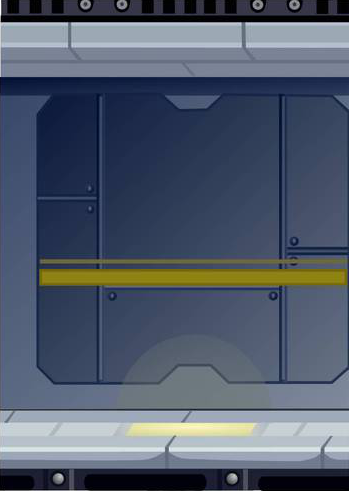
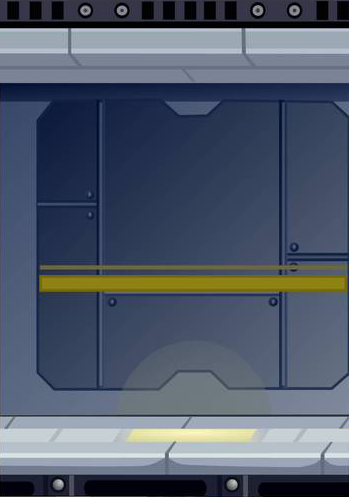
added: fist plan parallax effect

diff --git a/src/my_runner.c b/src/my_runner.c
@@ -7,25 +7,25 @@
 
 #include "runner.h"
 
-static bool wait_for_start(bool start_status, game_object **obj_box,
+static bool wait_for_start(bool *start_status, game_object **obj_box,
     sound_t **sound_box)
 {
-    while (start_status == false)
+    while (*start_status == false)
         if (sfKeyboard_isKeyPressed(sfKeySpace))
-            start_status = true;
+            *start_status = true;
     sfMusic_stop(sound_box[1]->music);
     sfMusic_play(sound_box[0]->music);
     sfMusic_play(sound_box[2]->music);
+    sfSprite_setPosition(obj_box[1]->spr, (sfVector2f){500.0, 830.0});
     sfSprite_setPosition(obj_box[2]->spr, (sfVector2f){2000.0, 2000.0});
-    sfSprite_setPosition(obj_box[3]->spr, (sfVector2f){500.0, 830.0});
-    return (start_status);
+    return (*start_status);
 }
 
 void my_runner(void)
 {
     sfEvent event;
     sfRenderWindow *window = create_my_window(1920, 1080, 32);
-    game_object **obj_box = malloc(sizeof(game_object *) * 4);
+    game_object **obj_box = malloc(sizeof(game_object *) * 8);
     sound_t **sound_box = malloc(sizeof(sound_t *) * 3);
     bool start_status = false;
 
@@ -35,7 +35,9 @@ void my_runner(void)
         sfRenderWindow_display(window);
         close_my_window(window, event);
         if (!start_status)
-            start_status = wait_for_start(start_status, obj_box, sound_box);
+            wait_for_start(&start_status, obj_box, sound_box);
+        move_env(obj_box);
+        sfRenderWindow_clear(window, sfBlack);
     }
     destroy_my_ressources(window, obj_box, sound_box);
 }

diff --git a/src/init_my_ressources.c b/src/init_my_ressources.c
@@ -10,9 +10,25 @@
 void init_my_ressources(game_object **obj_box)
 {
     sfSprite_setScale(obj_box[0]->spr, (sfVector2f){3.0, 3.0});
-    sfSprite_setPosition(obj_box[1]->spr, (sfVector2f){1389.0, 29.0});
-    sfSprite_setScale(obj_box[1]->spr, (sfVector2f){2.11, 2.11});
+    sfSprite_setScale(obj_box[1]->spr, (sfVector2f){1.5, 1.5});
     sfSprite_setScale(obj_box[2]->spr, (sfVector2f){3.0, 3.0});
-    sfSprite_setPosition(obj_box[3]->spr, (sfVector2f){2000.0, 2000.0});
-    sfSprite_setScale(obj_box[3]->spr, (sfVector2f){1.5, 1.5});
+    //for
+    sfSprite_setScale(obj_box[3]->spr, (sfVector2f){2.115, 2.115});
+    sfSprite_setScale(obj_box[4]->spr, (sfVector2f){2.115, 2.115});
+    sfSprite_setScale(obj_box[5]->spr, (sfVector2f){2.115, 2.115});
+    sfSprite_setScale(obj_box[6]->spr, (sfVector2f){2.115, 2.115});
+    //
+    sfSprite_setPosition(obj_box[1]->spr, (sfVector2f){2000.0, 2000.0});
+    sfSprite_setPosition(obj_box[3]->spr, (sfVector2f){1389.0, 13.0});
+    sfSprite_setPosition(obj_box[4]->spr, (sfVector2f){2127.0, 13.0});
+    sfSprite_setPosition(obj_box[5]->spr, (sfVector2f){2865.0, 13.0});
+    sfSprite_setPosition(obj_box[6]->spr, (sfVector2f){3603.0, 13.0});
+    sfSprite_setPosition(obj_box[7]->spr, (sfVector2f){0.0, 200.0});
+    //for
+    obj_box[0]->vec.x = -1.0;
+    obj_box[3]->vec.x = -1.0;
+    obj_box[4]->vec.x = -1.0;
+    obj_box[5]->vec.x = -1.0;
+    obj_box[6]->vec.x = -1.0;
+    //
 }

diff --git a/src/move_env.c b/src/move_env.c
@@ -1,0 +1,28 @@
+/*
+** EPITECH PROJECT, 2018
+** move_env.c
+** File description:
+** moves the environnement, takes care of the parallax effect
+*/
+
+#include "runner.h"
+
+static void parallax_mov(game_object **obj_box, int i)
+{
+    if (sfSprite_getPosition(obj_box[i]->spr).x > -750)
+        sfSprite_move(obj_box[i]->spr, obj_box[i]->vec);
+    else
+        sfSprite_setPosition(obj_box[i]->spr, (sfVector2f){2200.0, 13.0});
+}
+
+void move_env(game_object **obj_box)
+{
+    if (sfSprite_getPosition(obj_box[0]->spr).x > -1500)
+        sfSprite_move(obj_box[0]->spr, obj_box[0]->vec);
+    //for
+    parallax_mov(obj_box, 3);
+    parallax_mov(obj_box, 4);
+    parallax_mov(obj_box, 5);
+    parallax_mov(obj_box, 6);
+    //
+}

diff --git a/src/create_my_sprites.c b/src/create_my_sprites.c
@@ -17,7 +17,11 @@ static void create_env(game_object *obj, char const *path)
 void create_my_sprites(game_object **obj_box)
 {
     create_env(obj_box[0], "./image_src/LabEmpty.png");
-    create_env(obj_box[1], "./image_src/Slide.png");
+    create_env(obj_box[1], "./image_src/run1.png");
     create_env(obj_box[2], "./image_src/LabEntry.png");
-    create_env(obj_box[3], "./image_src/run1.png");
+    create_env(obj_box[3], "./image_src/Slide.png");
+    create_env(obj_box[4], "./image_src/EmptySlide.png");
+    create_env(obj_box[5], "./image_src/Slide.png");
+    create_env(obj_box[6], "./image_src/EmptySlide.png");
+    create_env(obj_box[7], "./image_src/XP-pix.jpg");
 }

diff --git a/src/draw_my_sprites.c b/src/draw_my_sprites.c
@@ -9,8 +9,14 @@
 
 void draw_my_sprites(sfRenderWindow *window, game_object **obj_box)
 {
+    //for
+    sfRenderWindow_drawSprite(window, obj_box[7]->spr, NULL);
     sfRenderWindow_drawSprite(window, obj_box[0]->spr, NULL);
-    sfRenderWindow_drawSprite(window, obj_box[1]->spr, NULL);
     sfRenderWindow_drawSprite(window, obj_box[2]->spr, NULL);
     sfRenderWindow_drawSprite(window, obj_box[3]->spr, NULL);
+    sfRenderWindow_drawSprite(window, obj_box[4]->spr, NULL);
+    sfRenderWindow_drawSprite(window, obj_box[5]->spr, NULL);
+    sfRenderWindow_drawSprite(window, obj_box[6]->spr, NULL);
+    sfRenderWindow_drawSprite(window, obj_box[1]->spr, NULL);
+    //
 }

diff --git a/src/destroy_my_ressources.c b/src/destroy_my_ressources.c
@@ -9,7 +9,7 @@
 
 static void free_all(game_object **obj_box, sound_t **sound_box)
 {
-    for (int i = 0; i < 4; i++)
+    for (int i = 0; i < 6; i++)
         free(obj_box[i]);
     for (int i = 0; i < 3; i++)
         free(sound_box[i]);
@@ -36,6 +36,9 @@ void destroy_my_ressources(sfRenderWindow *window, game_object **obj_box,
     destroy_env(obj_box[0]);
     destroy_env(obj_box[1]);
     destroy_env(obj_box[2]);
+    destroy_env(obj_box[3]);
+    destroy_env(obj_box[4]);
+    destroy_env(obj_box[5]);
     destroy_music(sound_box[0]);
     destroy_music(sound_box[1]);
     destroy_music(sound_box[2]);

diff --git a/src/create_my_ressources.c b/src/create_my_ressources.c
@@ -9,7 +9,7 @@
 
 void create_my_ressources(game_object **obj_box, sound_t **sound_box)
 {
-    for (int i = 0; i < 4; i++)
+    for (int i = 0; i < 8; i++)
         obj_box[i] = malloc(sizeof(game_object));
     for (int i = 0; i < 3; i++)
         sound_box[i] = malloc(sizeof(sound_t));
@@ -17,4 +17,6 @@ void create_my_ressources(game_object **obj_box, sound_t **sound_box)
     create_my_sounds(sound_box);
     init_my_ressources(obj_box);
     sfMusic_play(sound_box[1]->music);
+    sfMusic_setLoop(sound_box[0]->music, sfTrue);
+    sfMusic_setLoop(sound_box[1]->music, sfTrue);
 }

diff --git a/include/runner.h b/include/runner.h
@@ -16,8 +16,13 @@
 
 /*
 0 - LabEmpty
-1 - Slide
-2 - menu
+1 - Barry
+2 - LabEntry (menu)
+3 - Slide
+4 - EmptySlide
+5 - Slide2
+6 - EmptySlide2
+7 - windows background
 */
 
 typedef struct game_object_s
@@ -29,8 +34,9 @@ typedef struct game_object_s
 } game_object;
 
 /*
-0 - menu
-1 - constant music
+0 - constant music
+1 - menu
+2 - Smash
 */
 
 typedef struct sound_s
